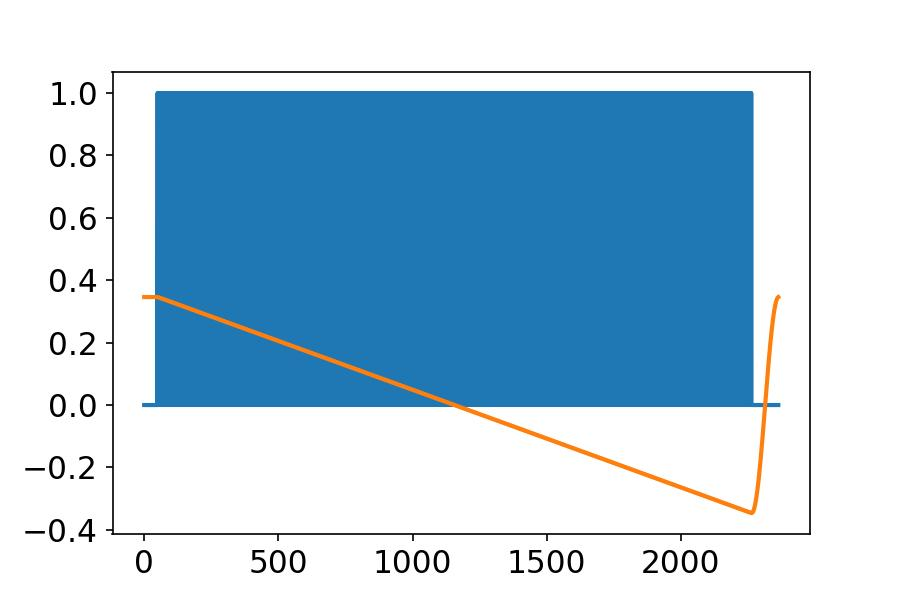
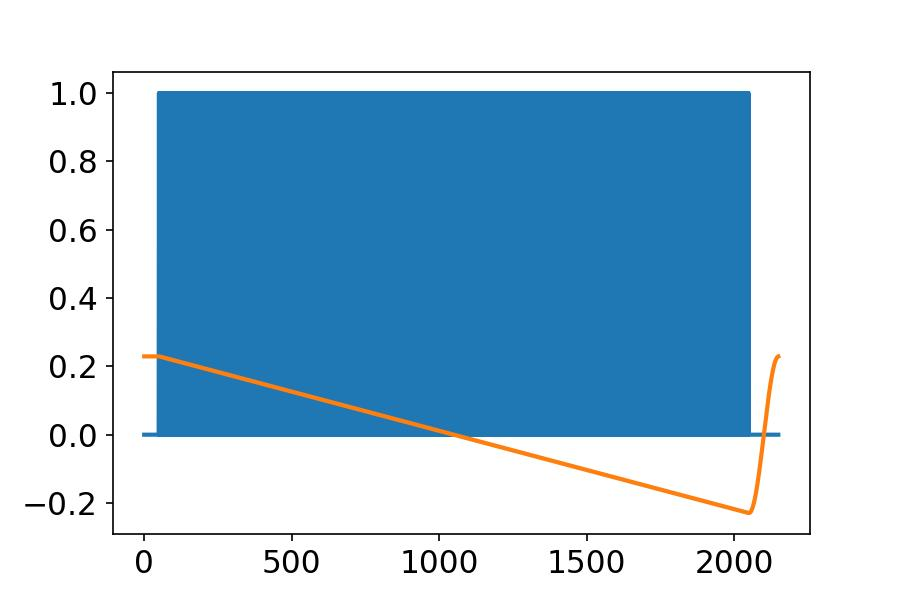
lab commit

diff --git a/ThreadWeaver.py b/ThreadWeaver.py
@@ -583,7 +583,7 @@ class WeaverThread(QThread):
         # self.DnSQueue.put(an_action)
         frame_rate = self.ui.FrameRate_DH.value()
         if acq_mode in tuple(mode for mode in BLINE_MODES if mode in CONTINUOUS_MODES):
-            self.ui.FrameRate_DH.setValue(20)
+            self.ui.FrameRate_DH.setValue(50)
         an_action = DActionField('ConfigureBoard')
         self.DQueue.put(an_action)
         # self.DbackQueue.get()
@@ -735,16 +735,16 @@ class WeaverThread(QThread):
         return 300.0
 
     def get_background(self):
-        an_action = AODOActionField('rotate_servo_out')
-        self.AODOQueue.put(an_action)
-        self.StagebackQueue.get()
+        # an_action = AODOActionField('rotate_servo_out')
+        # self.AODOQueue.put(an_action)
+        # self.StagebackQueue.get()
         # print('start getting background...')
         acq_mode = self.ui.ACQMode.currentText()
         fft_device = self.ui.FFTDevice.currentText()
         BAvg = self.ui.BlineAVG.value()
         self.ui.ACQMode.setCurrentText(AcqTypes.FINITE_BLINE)
         self.ui.FFTDevice.setCurrentText('None')
-        self.ui.BlineAVG.setValue(100)
+        self.ui.BlineAVG.setValue(20)
         ############################# measure an Aline
         # print('acquiring Bline')
         self.ui.RunButton.setChecked(True)
@@ -786,9 +786,9 @@ class WeaverThread(QThread):
         self.ui.FFTDevice.setCurrentText(fft_device)
         self.ui.BlineAVG.setValue(BAvg)
         
-        an_action = AODOActionField('rotate_servo_back')
-        self.AODOQueue.put(an_action)
-        self.StagebackQueue.get()
+        # an_action = AODOActionField('rotate_servo_back')
+        # self.AODOQueue.put(an_action)
+        # self.StagebackQueue.get()
         return "Background measurement completed."
 
     def get_background_cscan(self):

diff --git a/ThreadGPU.py b/ThreadGPU.py
@@ -48,7 +48,7 @@ GPU_SPECTRAL_BASELINE_WINDOW_SIZE = 35
 # Off-axis holography X-sideband filtering -----------------------------------
 # Set True to enable: FFT along X, keep one spatial sideband, IFFT back, then
 # remove the reference carrier before the axial FFT. Leave False for normal OCT.
-HOLO_X_FILTER_ENABLED = False
+HOLO_X_FILTER_ENABLED = True
 
 # Physical reference tilt model. The sideband center is calculated as
 # kx = 2*pi*sin(theta)/lambda0 unless HOLO_X_FILTER_CENTER_FRACTION_OVERRIDE

diff --git a/OCT_MT.py b/OCT_MT.py
@@ -58,7 +58,7 @@ memoryCount = 16
 
 
 # Number of processed Cscan Y-lines per streaming package.
-CSCAN_PACKAGE_Y_LINES = 64
+CSCAN_PACKAGE_Y_LINES = 128
 global Memory
 Memory = list(range(memoryCount))
 
